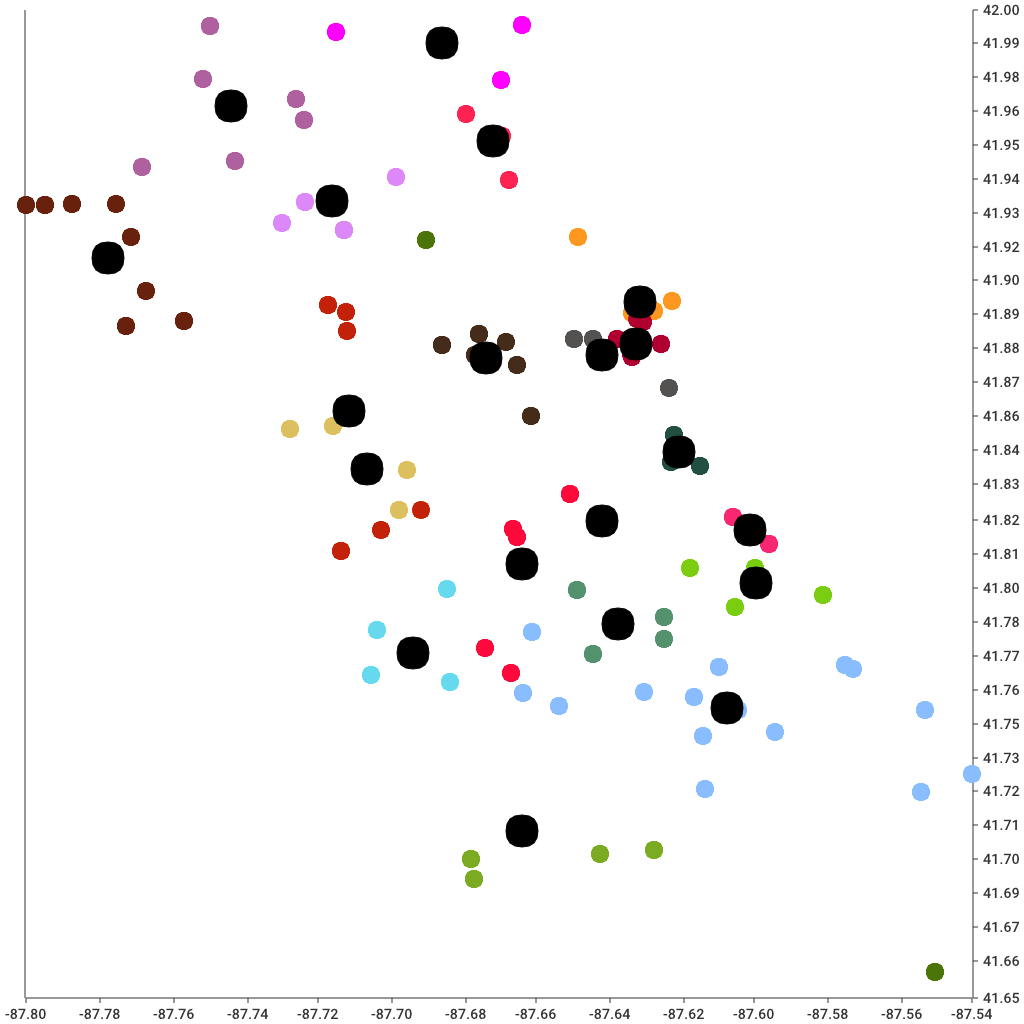
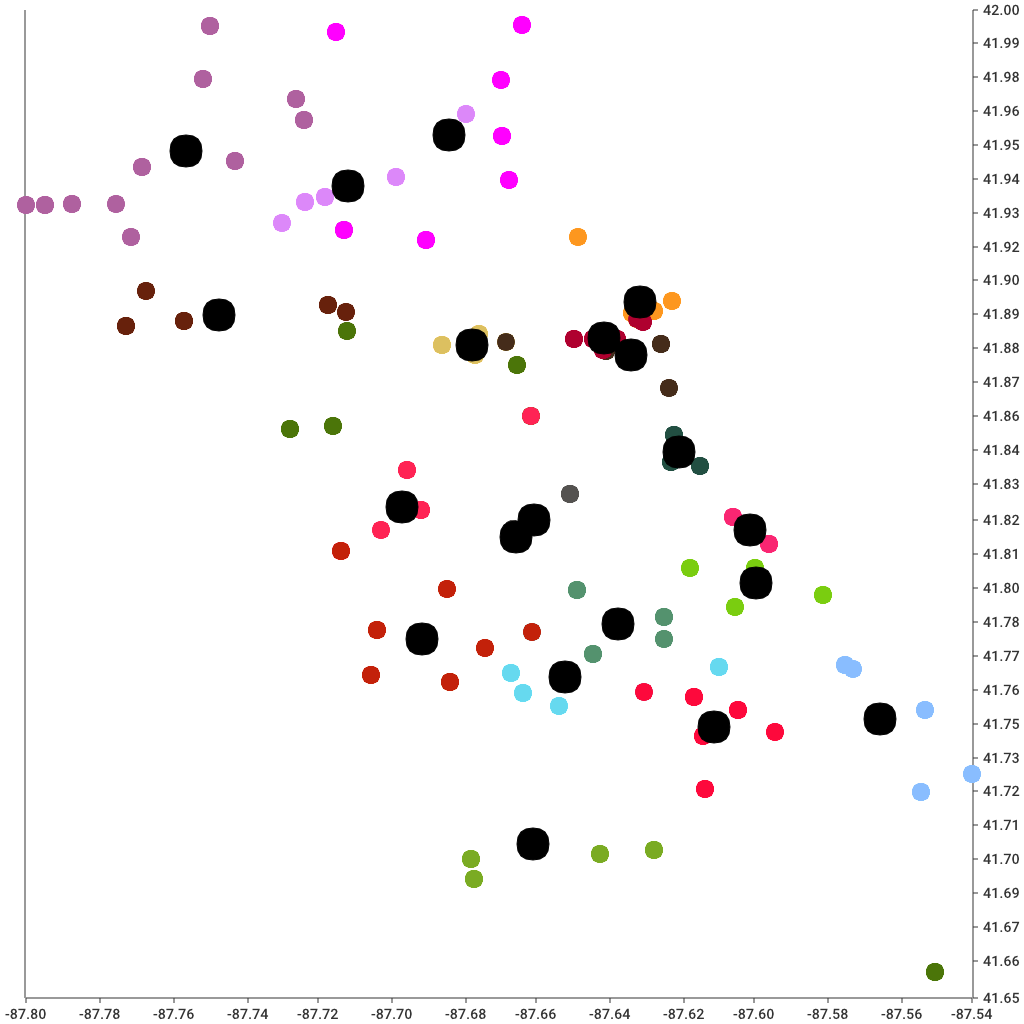
neighbouring sesuai urutan

diff --git a/main.go b/main.go
@@ -51,9 +51,7 @@ func main() {
 		var sortcd []sorted
 		for i, _ := range clusters {
 			// search nearest neighbour
-			// r, cd := clusters.Neighbour(clusters[i].Center, 0)
-			// for _, p := range clusters[i].Observations {
-			// r, _ = c.Neighbour(p, A)
+
 			distA := clusters[0].Center.Distance(clusters[i].Center)
 			sortcd = append(sortcd, sorted{
 				i,
@@ -66,19 +64,19 @@ func main() {
 		})
 		//  Plan the steps of adjustment among clusters;
 		// 19 step (0, 1) (1,2), dst
-		for i := 0; i < len(clusters); i++ {
+		for i := 1; i < len(clusters); i++ {
 
 			// cc, _ := New(20, clusters[i].Observations)
 			var diffA Observations
 			var diffB []diffsort
 
-			if len(clusters[i].Observations) < 102 {
-				continue
-			}
+			// if len(clusters[i].Observations) < 102 {
+			// 	continue
+			// }
 
 			// fmt.Println(sortcd)
 			//call borderadjust, get new cluster A & B
-			if i > 0 && i < len(clusters) {
+			if i < len(clusters) {
 				// B, _ = clusters.Neighbour(clusters[i].Observations[i], i)
 				diffA, diffB = clusters.borderadjust(sortcd[i-1].cl, sortcd[i].cl)
 				// fmt.Println(diffA, diffB)
@@ -124,7 +122,7 @@ func main() {
 				return //nil, fmt.Errorf("failed to plot chart: %s", err)
 			}
 		}
-		//max iter
+		//max iter or no changes (?)
 		if iter == 10 {
 			break
 		}

diff --git a/borderadjust.go b/borderadjust.go
@@ -35,9 +35,9 @@ func (c Clusters) borderadjust(A int, B int) (Observations, []diffsort) {
 
 	//  Move the first m point in area A based on sorted
 	// diff(p, B) to area B;
-	chunkSize := (len(d) + 20 - 1) / 20
-	if len(c[A].Observations) > chunkSize && len(c[A].Observations) > len(c[B].Observations) {
-		m := len(c[A].Observations) - chunkSize
+	// chunkSize := (len(d) + 20 - 1) / 20
+	if len(c[A].Observations) > 102 { //&& len(c[A].Observations) > len(c[B].Observations) {
+		m := len(c[A].Observations) - 102
 		for i := 0; i < m; i++ {
 			// move to B
 			diffB = append(diffB, diff[i])
